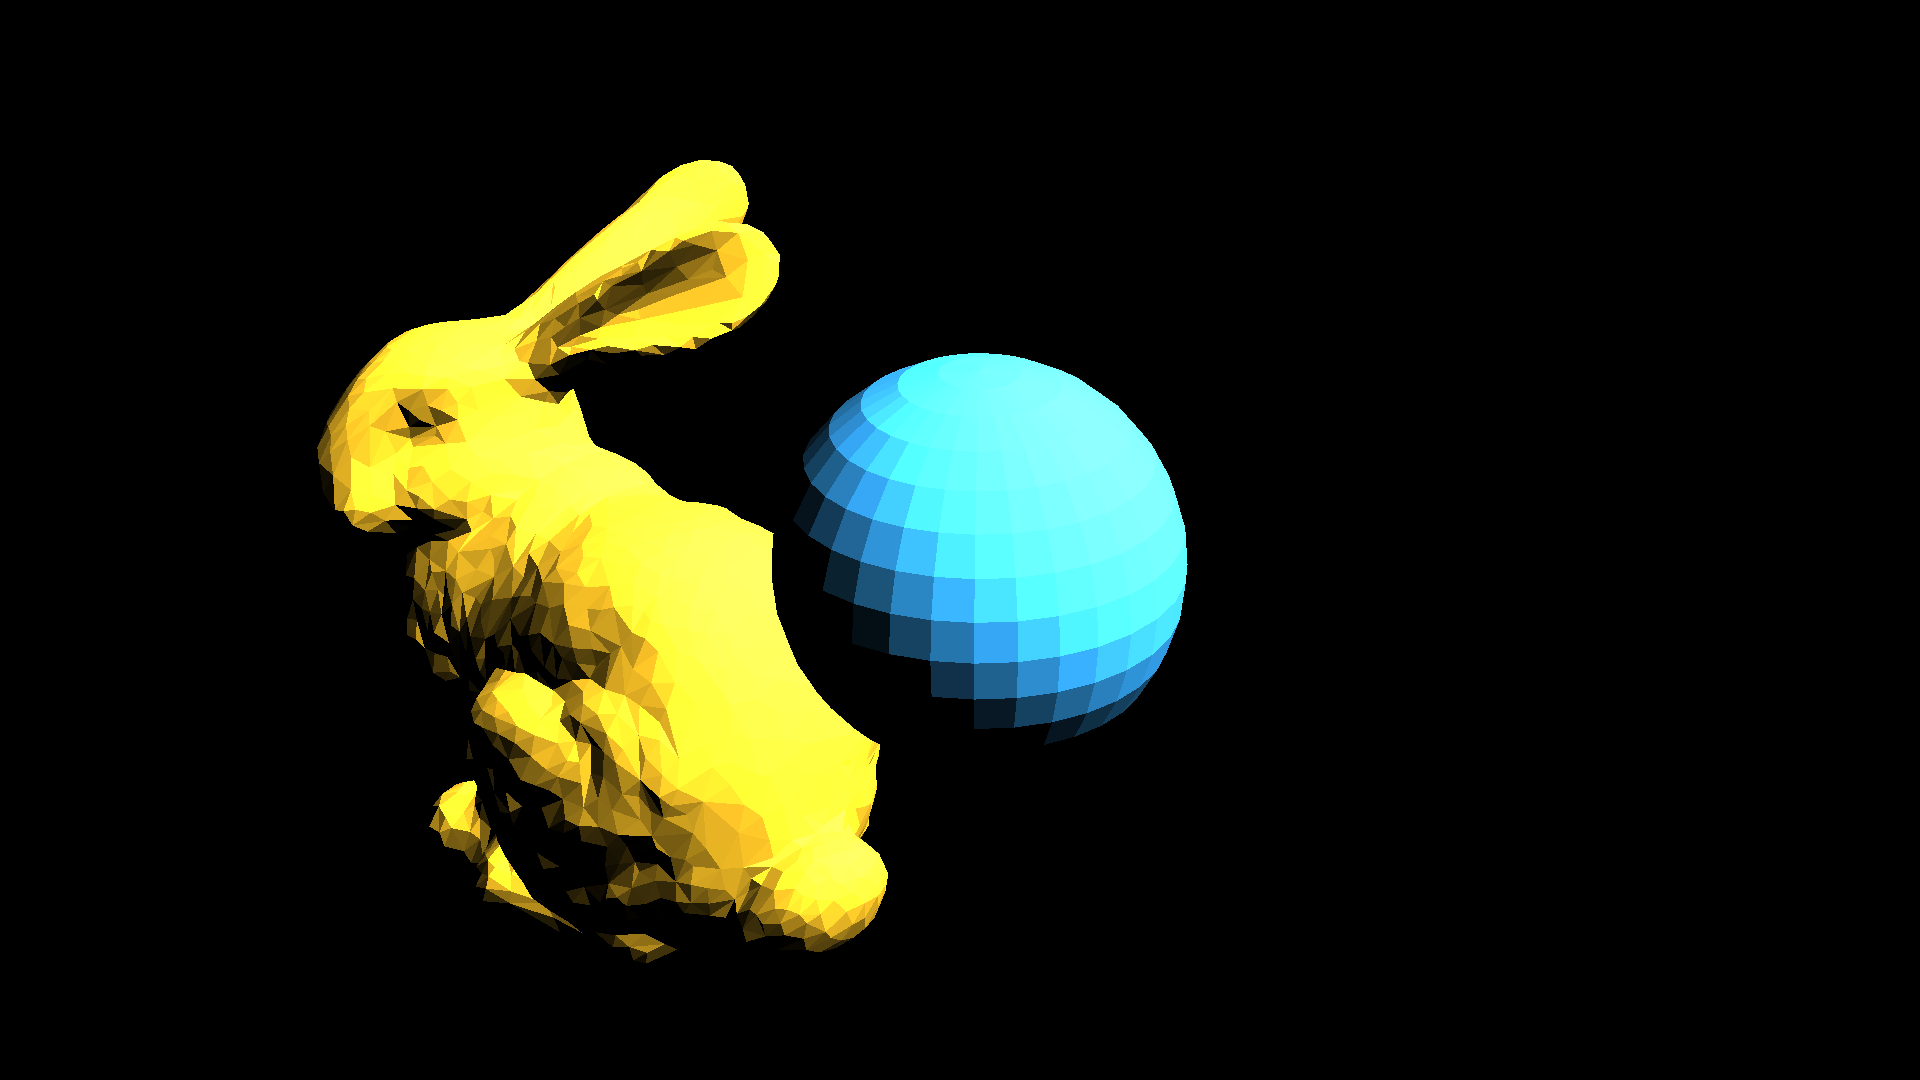
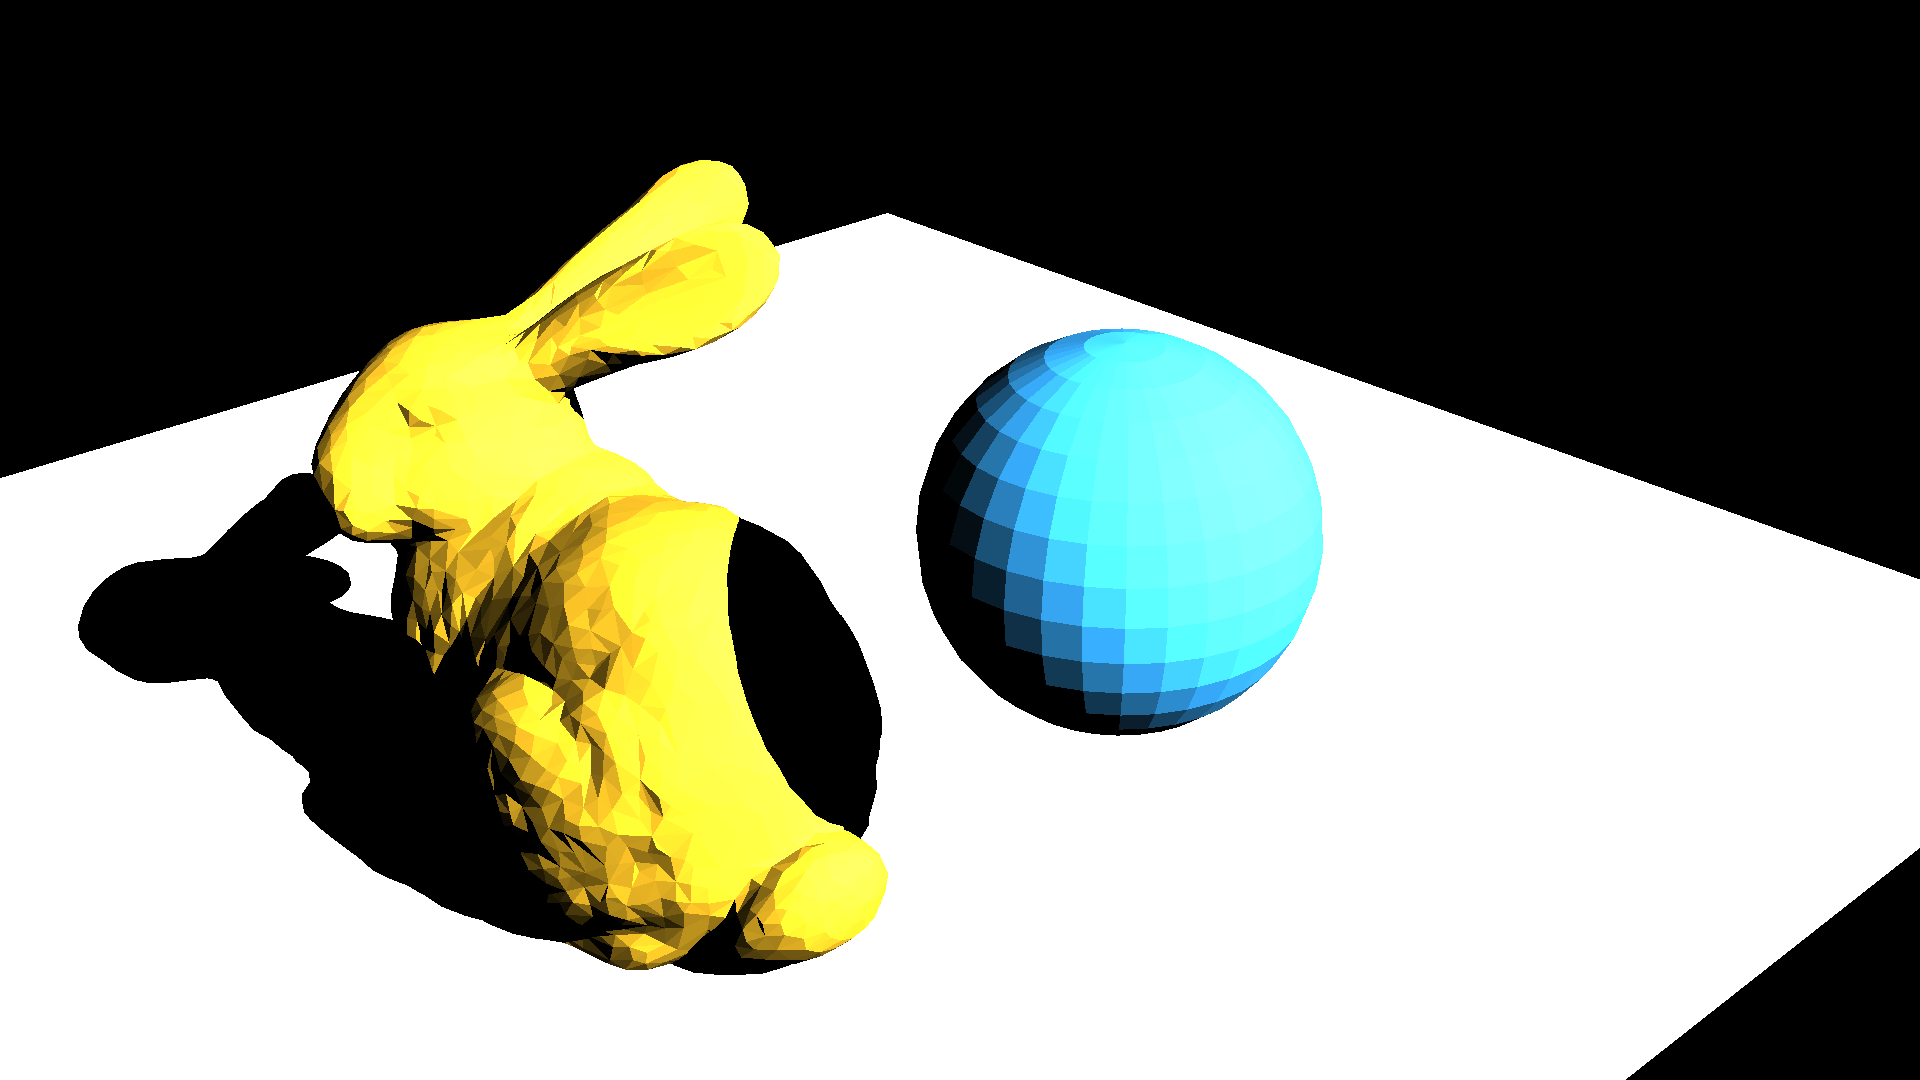
shadows fixed

diff --git a/src/integrator.cpp b/src/integrator.cpp
@@ -31,7 +31,7 @@ namespace Helios {
                 shadow_ray.org_x = hit_record.hit_point.x;
                 shadow_ray.org_y = hit_record.hit_point.y;
                 shadow_ray.org_z = hit_record.hit_point.z;
-                shadow_ray.tnear = 0.0f;
+                shadow_ray.tnear = 0.001f;
                 shadow_ray.dir_x = w_i.x;
                 shadow_ray.dir_y = w_i.y;
                 shadow_ray.dir_z = w_i.z;
@@ -40,10 +40,9 @@ namespace Helios {
                 shadow_ray.flags = 0;
 
                 RayHitRecord shadow_hit_record;
-                if (scene.Intersect(shadow_ray, shadow_hit_record)) {
-                    continue;
+                if (!scene.Intersect(shadow_ray, shadow_hit_record)) {
+                    final_color += color*light_intensity*glm::abs(glm::dot(w_i, hit_record.normal));
                 }
-                final_color += color*light_intensity*glm::max(glm::dot(w_i, hit_record.normal), 0.0f);
             }
         }
         

diff --git a/src/scene.cpp b/src/scene.cpp
@@ -18,6 +18,7 @@ namespace Helios {
 
     void Scene::Create() {
         m_Scene = rtcNewScene(g_Device);
+        rtcSetSceneFlags(m_Scene, RTC_SCENE_FLAG_ROBUST);
     }
 
     bool Scene::Intersect(const RTCRay& ray, RayHitRecord& record) const {
@@ -37,7 +38,7 @@ namespace Helios {
             return false;
         }
 
-        record.distance = ray.tfar;
+        record.distance = rayhit.ray.tfar;
         record.normal = glm::normalize(vec3(rayhit.hit.Ng_x, rayhit.hit.Ng_y, rayhit.hit.Ng_z));
         record.hit_point = vec3(ray.org_x, ray.org_y, ray.org_z) + 
                            vec3(ray.dir_x, ray.dir_y, ray.dir_z)*record.distance;

diff --git a/src/spectrum.h b/src/spectrum.h
@@ -20,7 +20,7 @@ namespace Helios {
     }
 
     inline Spectrum Spectrum::operator*(const Spectrum& rhs) {
-        return { this->r * rhs.r, this->g * rhs.g, this->b * rhs.b };
+        return { this->r*rhs.r, this->g*rhs.g, this->b*rhs.b };
     }
 
     inline Spectrum Spectrum::operator+(const Spectrum& rhs) {
